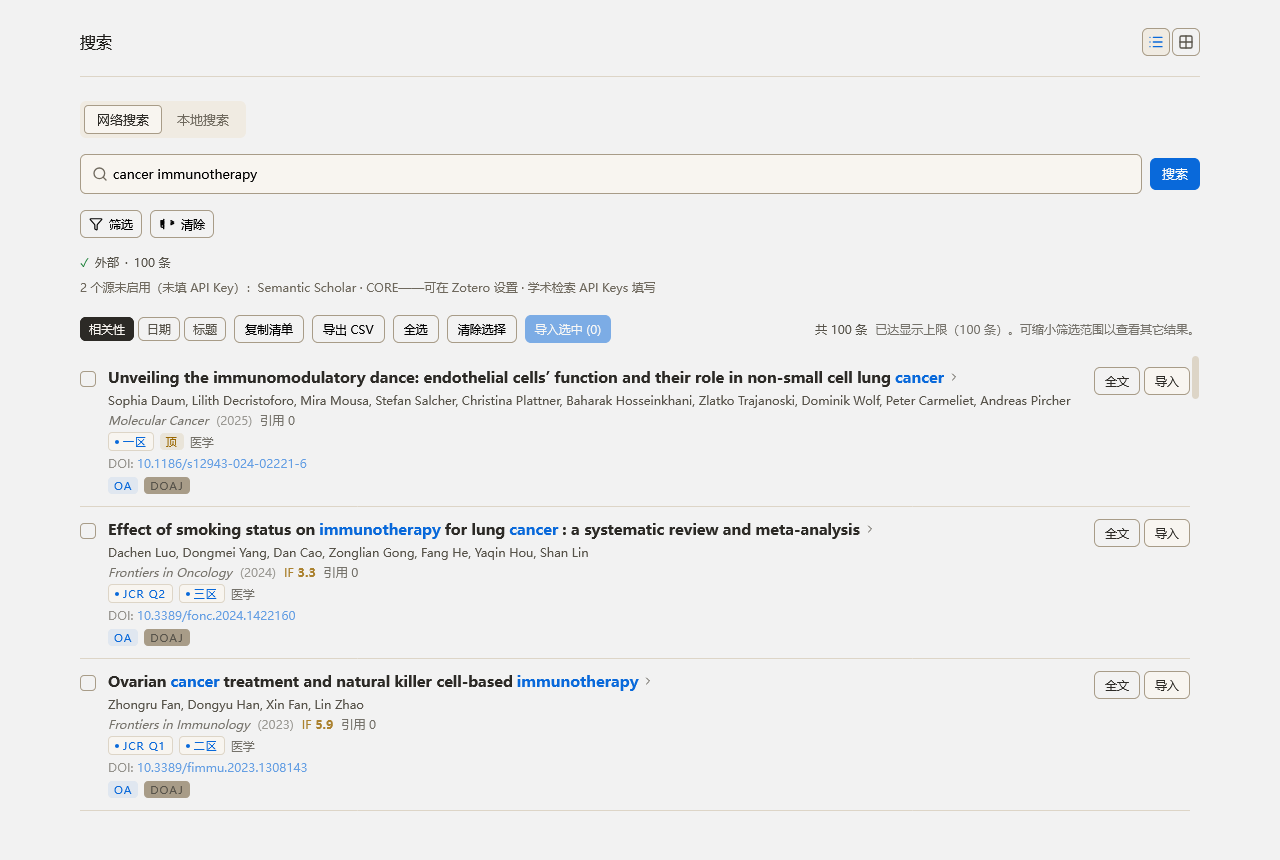
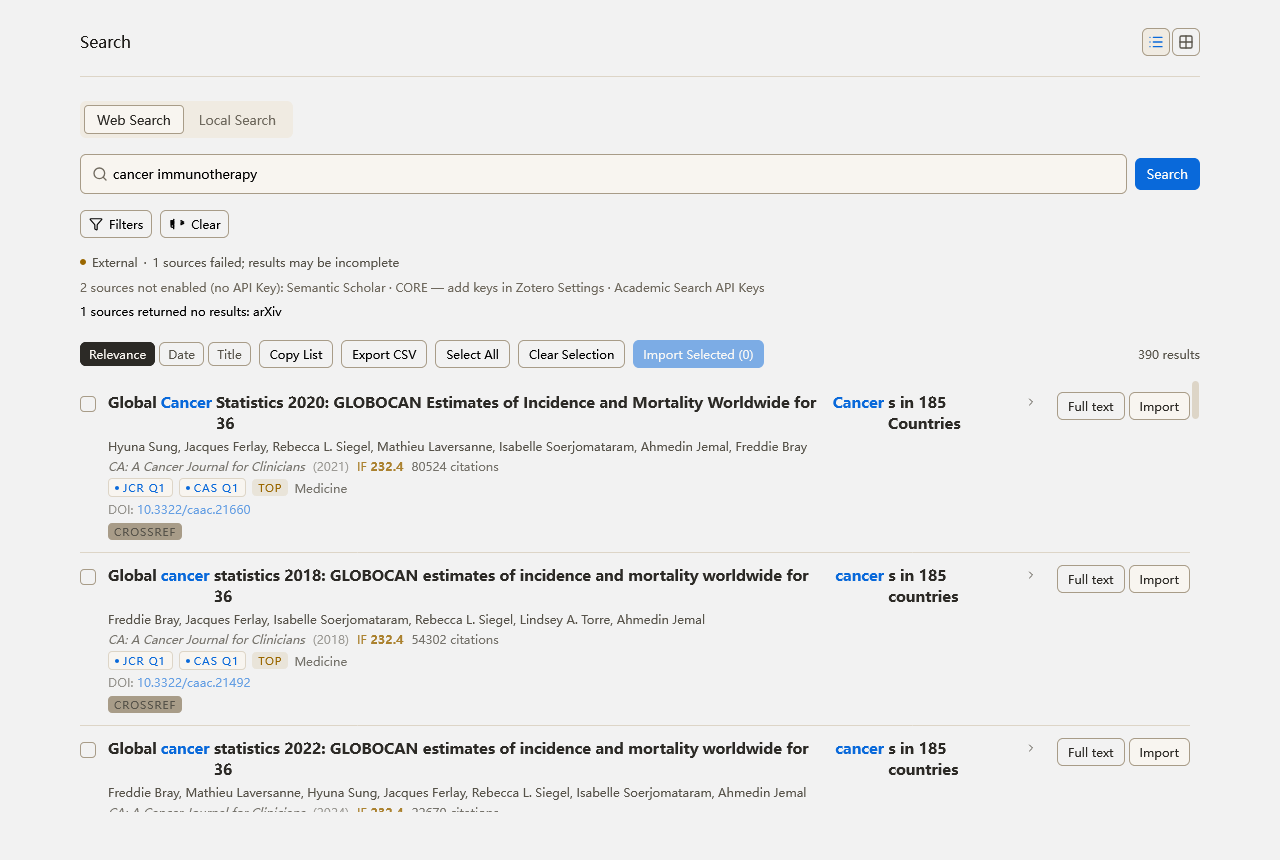
feat(i18n): 英文 Zotero 默认英文数据列 + README 截图改英文界面
- 富集侧 CASS 大类/预警级别按 Zotero.locale 取中英列：中文界面中文，
  其余（含 en 与第三语言）默认英文，英文列缺失回退中文（审计遗漏项）
- 期刊指标卡 CAS 大类改双语对（zh: 中文 (English) / 其他: English (中文)），
  小类名同样按界面语言取列
- 视觉 spec 强制 en-US 渲染（README 截图为英文界面），after() 对称恢复
  locale 与快照，不污染后续中文断言套件；选择器双语化
- README 两张截图替换为英文界面实机截图（徽章: JCR Q1/CAS Q1/Top/Medicine）

diff --git a/tests/zotero/hub-visual-search.spec.js b/tests/zotero/hub-visual-search.spec.js
@@ -70,12 +70,17 @@ describe("z-search hub visual search verification (real Zotero + real network)",
       ?.contentWindow;
   }
 
-  function findBtn(text) {
+  /** 按钮文本匹配：支持 string（前缀）与 RegExp（整串测试）。双语选择器
+      （en-US 本 spec 强制英语；前缀匹配保留给历史调用兼容）。 */
+  function findBtn(textOrRe) {
     const root = hubRoot();
     return (
-      Array.from(root?.querySelectorAll("button") || []).find((b) =>
-        (b.textContent || "").trim().startsWith(text),
-      ) || null
+      Array.from(root?.querySelectorAll("button") || []).find((b) => {
+        const t = (b.textContent || "").trim();
+        return typeof textOrRe === "string"
+          ? t.startsWith(textOrRe)
+          : textOrRe.test(t);
+      }) || null
     );
   }
 
@@ -114,12 +119,14 @@ describe("z-search hub visual search verification (real Zotero + real network)",
     input.dispatchEvent(new win.Event("input", { bubbles: true }));
     await Zotero.Promise.delay(400);
     // 从输入框向上爬，找最近一个同时装有「搜索」钮的祖先——keep-alive
-    // 让隐藏面板的同名按钮也挂在 DOM 里，全域找钮会点到隐藏面板去
+    // 让隐藏面板的同名按钮也挂在 DOM 里，全域找钮会点到隐藏面板去。
+    // 精确等值（Search / 搜索）避免误配 Searching... 之类的中间态文案。
     let anc = input.parentElement;
     let btn = null;
     while (anc && anc !== root) {
       btn = Array.from(anc.querySelectorAll(":scope > * button")).find(
-        (b) => (b.textContent || "").trim().startsWith("搜索") && !b.disabled,
+        (b) =>
+          /^(Search|搜索)$/.test((b.textContent || "").trim()) && !b.disabled,
       );
       if (btn) break;
       anc = anc.parentElement;
@@ -251,8 +258,72 @@ describe("z-search hub visual search verification (real Zotero + real network)",
     OUTPUTS[name] = path;
   }
 
+  // 切走前的应用 locale（after() 恢复）——本套件按字母序最先跑，后面还有
+  // 按中文断言的套件，不能把 en-US 泄漏给他们。
+  let origRequestedLocales = null;
+  let origZoteroLocale = null;
+
+  function localeService() {
+    // 本 Gecko 无 Services.sys.mjs；chrome 窗口通常已有 Services 全局，
+    // 不可用则直取 XPCOM locale service。
+    return globalThis.Services
+      ? globalThis.Services.locale
+      : Cc["@mozilla.org/intl/localeservice;1"].getService(
+          Ci.mozILocaleService,
+        );
+  }
+
+  function addonInstance() {
+    // runner 页无裸 `addon` 全局（no-undef 也不认 typeof 守卫）——经
+    // globalThis 取，缺省落到 null。
+    return Zotero.ZSearch ?? globalThis.addon ?? null;
+  }
+
+  /** 作废插件的 locale 快照。Fluent 的 Localization 监听
+      intl:app-locales-changed 自行重协商（Zotero 设置里切换语言即生效），
+      但 addon.data.locale.cacheSnapshot 是冻结的字符串映射，必须显式丢弃
+      让 locale.getAll 重新解析。 */
+  function invalidateLocaleSnapshot() {
+    const inst = addonInstance();
+    if (inst?.data?.locale) {
+      delete inst.data.locale.cacheSnapshot;
+      // 保险：若该构建的 Localization 不自动重协商，用 runner 页可见的
+      // Localization 构造器重建实例（getGlobal 在 runner 页不存在）。
+      try {
+        const Loc = globalThis.Localization;
+        if (Loc) {
+          inst.data.locale.current = new Loc(
+            [
+              "zsearch-addon.ftl",
+              "zsearch-preferences.ftl",
+              "zsearch-tracking.ftl",
+            ],
+            true,
+          );
+        }
+      } catch {
+        /* 保留旧实例，依赖其自动重协商 */
+      }
+    }
+  }
+
   before(async function () {
     try {
+      // README 截图要求英文界面（插件默认英语）：把测试实例的应用 locale
+      // 切到 en-US，并作废插件启动时预热的 locale 快照——iframe 的
+      // locale.getAll 会经 localeBatch 重新协商，整个 Hub 以 en-US FTL 渲染。
+      // 这同时是 en-US FTL 键集的实机回归：任何缺失键都会以裸 key 上屏并被
+      // 下面的断言/截图暴露。
+      const ls = localeService();
+      origRequestedLocales = ls.requestedLocales;
+      ls.requestedLocales = ["en-US"];
+      // Zotero.locale 是启动时缓存的普通属性，不随 requestedLocales 运行时
+      // 切换更新——宿主侧富集的 zh/en 列选择（literatureSearchHelpers）读它，
+      // 必须一并覆盖，否则卡片学科徽章仍会取中文列。
+      origZoteroLocale = Zotero.locale;
+      Zotero.locale = "en-US";
+      invalidateLocaleSnapshot();
+
       const mod = await import("../../src/ui/hub/HubWindowManager.js");
       hubWindowManager = mod.hubWindowManager;
       outDirReady = await ensureOutDir();
@@ -266,6 +337,15 @@ describe("z-search hub visual search verification (real Zotero + real network)",
 
   after(function () {
     try {
+      if (origRequestedLocales) {
+        try {
+          localeService().requestedLocales = origRequestedLocales;
+        } catch {
+          /* best-effort */
+        }
+        Zotero.locale = origZoteroLocale;
+        invalidateLocaleSnapshot();
+      }
       hubWindowManager?.closeAll();
     } catch {
       /* best-effort */
@@ -288,14 +368,14 @@ describe("z-search hub visual search verification (real Zotero + real network)",
       // 可靠路径：不做筛选交互，直接全源检索（被墙源失败会被状态条点名）
       const drive = await runUiSearch(
         "cancer immunotherapy",
-        /研究问题|关键词|DOI/i,
+        /research question|keywords|DOI|研究问题|关键词/i,
       );
       const cards = await waitFor(
         () => hubDoc()?.querySelectorAll(".lit-result-journal").length,
         150000,
       );
       // 等检索收尾（「取消」钮变回「搜索」，状态条脱离「检索中」置灰态）
-      await waitFor(() => !!findBtn("搜索"), 60000);
+      await waitFor(() => !!findBtn(/^(Search|搜索)$/), 60000);
       await Zotero.Promise.delay(1500);
 
       // 把带 IF 徽章的卡滚进视口（虚拟列表只在视口内挂载行）
@@ -384,7 +464,7 @@ describe("z-search hub visual search verification (real Zotero + real network)",
       await waitFor(() => {
         const input = Array.from(
           hubRoot()?.querySelectorAll("input") || [],
-        ).find((i) => /刊名|ISSN/i.test(i.placeholder || ""));
+        ).find((i) => /journal name|ISSN|刊名/i.test(i.placeholder || ""));
         if (!input) return null;
         const slot = input.closest(".hub-pane-slot");
         return slot && !/hidden/.test(slot.className) ? input : null;
@@ -392,7 +472,7 @@ describe("z-search hub visual search verification (real Zotero + real network)",
 
       const drive = await runUiSearch(
         "Academic Exchange Quarterly",
-        /刊名|ISSN/i,
+        /journal name|ISSN|刊名/i,
       );
       const hit = await waitFor(
         () => {

diff --git a/src/core/search/literatureSearchHelpers.ts b/src/core/search/literatureSearchHelpers.ts
@@ -57,6 +57,13 @@ export async function enrichJournalMetrics(articles: any[]): Promise<void> {
         : Promise.resolve(new Map()),
     ]);
 
+    // 数据侧中英列的界面语言选择：中文界面取中文列，其余 locale（含 en 与
+    // 未翻译的第三语言）默认取英文列——CASS 大类名/预警级别否则会在英文
+    // 界面上露出中文。
+    const zhUi = String((globalThis as any).Zotero?.locale ?? "")
+      .toLowerCase()
+      .startsWith("zh");
+
     for (const a of articles) {
       if (!a) continue;
       const issnKey = a.issn ? normIssn(a.issn) : "";
@@ -78,18 +85,17 @@ export async function enrichJournalMetrics(articles: any[]): Promise<void> {
       }
       if (cass) {
         a.cassQuartile = cass.major_quartile ?? undefined;
-        a.cassCategory = cass.major_category ?? undefined;
+        // 英文列缺失时回退中文列（部分行 major_category_en 为 null）
+        a.cassCategory =
+          (!zhUi && cass.major_category_en) || cass.major_category || undefined;
         a.cassIsTop = cass.is_top === true;
       }
       // 2024/2025 版预警名单不带级别（warning_level=null，论文工厂类）——
-      // 记录存在即告警；级别按界面语言取值（en 优先 High/Medium/Low），
+      // 记录存在即告警；级别按界面语言取值（中文界面中文、其余默认英文），
       // 全缺回退 ⚠（审计 P0-3 / P2-5）
       if (warn) {
-        const en = String((globalThis as any).Zotero?.locale ?? "")
-          .toLowerCase()
-          .startsWith("en");
-        const primary = en ? warn.warning_level_en : warn.warning_level;
-        const secondary = en ? warn.warning_level : warn.warning_level_en;
+        const primary = zhUi ? warn.warning_level : warn.warning_level_en;
+        const secondary = zhUi ? warn.warning_level_en : warn.warning_level;
         a.warningLevel = primary ?? secondary ?? "⚠";
       }
       if (beallsHit) a.beallsHit = beallsHit;

diff --git a/src/react/components/Hub/search/JournalSearch/JournalMetricCard.tsx b/src/react/components/Hub/search/JournalSearch/JournalMetricCard.tsx
@@ -9,10 +9,22 @@
  */
 
 import React from "react";
-import { getString } from "../../../../utils/locale";
+import { getString, getLocaleTag } from "../../../../utils/locale";
 import { StatFigure } from "@/components/ui/StatFigure";
 import type { JournalMetric } from "../../../../../types/journalSearch";
 import { normalizeQuartile, formatQuartile } from "./types";
+
+/** CAS 大类中英双列的展示序：中文界面「中文 (English)」，其余界面默认
+    「English (中文)」——英文 Zotero 下不再以中文打头。缺列时单列。 */
+function formatCassCategoryPair(zh: string, en: string | undefined): string {
+  if (!en) return zh;
+  const zhUi = isZhUi();
+  return zhUi ? `${zh} (${en})` : `${en} (${zh})`;
+}
+
+function isZhUi(): boolean {
+  return (getLocaleTag() || "").toLowerCase().startsWith("zh");
+}
 
 /* 分区色阶退役（砚法 §5.3 语义外色相违法；Q3/Q4 撞色不可辨）：Q1 保留
    --accent 单强调档，Q2-Q4 统一 text-primary——分区语义由 Q1-Q4 文字承载，
@@ -267,7 +279,10 @@ export function JournalMetricCard({
           {metric.cassCategory && (
             <MetricRow
               label={getString("journal-cass-category-label")}
-              value={`${metric.cassCategory}${metric.cassCategoryEn ? ` (${metric.cassCategoryEn})` : ""}`}
+              value={formatCassCategoryPair(
+                metric.cassCategory,
+                metric.cassCategoryEn,
+              )}
             />
           )}
           {metric.cassIsTop != null && metric.cassIsTop && (
@@ -288,7 +303,7 @@ export function JournalMetricCard({
                       <span data-quartile={normalizeQuartile(m.quartile) ?? ""}>
                         {formatQuartile(m.quartile)}
                       </span>{" "}
-                      {m.nameCn || m.name}
+                      {isZhUi() ? m.nameCn || m.name : m.name || m.nameCn}
                     </span>
                   ))}
                 </div>

diff --git a/tests/unit/core/search/literature-enrich.test.ts b/tests/unit/core/search/literature-enrich.test.ts
@@ -133,4 +133,62 @@ describe("enrichJournalMetrics", () => {
     expect(articles[0].jif).toBe(2.1);
     expect(articles[0].jcrQuartile).toBeUndefined();
   });
+
+  it("默认英文：无 Zotero locale 时 CASS 大类与预警级别取英文列", async () => {
+    cassLookup.mockResolvedValue(
+      new Map([
+        [
+          "12345678",
+          {
+            major_quartile: 1,
+            major_category: "医学",
+            major_category_en: "Medicine",
+          },
+        ],
+      ]),
+    );
+    warnLookup.mockResolvedValue(
+      new Map([
+        ["ANY JOURNAL", { warning_level: "高", warning_level_en: "High" }],
+      ]),
+    );
+
+    const articles = [{ issn: "1234-5678", journalName: "Any Journal" }];
+    await enrichJournalMetrics(articles);
+    expect(articles[0].cassCategory).toBe("Medicine");
+    expect(articles[0].warningLevel).toBe("High");
+  });
+
+  it("中文界面（Zotero.locale=zh-CN）取中文列", async () => {
+    cassLookup.mockResolvedValue(
+      new Map([
+        [
+          "12345678",
+          {
+            major_quartile: 1,
+            major_category: "医学",
+            major_category_en: "Medicine",
+          },
+        ],
+      ]),
+    );
+    warnLookup.mockResolvedValue(
+      new Map([
+        ["ANY JOURNAL", { warning_level: "高", warning_level_en: "High" }],
+      ]),
+    );
+
+    const g = globalThis as any;
+    const prev = g.Zotero;
+    g.Zotero = { locale: "zh-CN" };
+    try {
+      const articles = [{ issn: "1234-5678", journalName: "Any Journal" }];
+      await enrichJournalMetrics(articles);
+      expect(articles[0].cassCategory).toBe("医学");
+      expect(articles[0].warningLevel).toBe("高");
+    } finally {
+      if (prev === undefined) delete g.Zotero;
+      else g.Zotero = prev;
+    }
+  });
 });

diff --git a/scripts/audit-cjk-literals.py b/scripts/audit-cjk-literals.py
@@ -1,0 +1,16 @@
+import re
+import pathlib
+
+root = pathlib.Path("src")
+hits = []
+for p in root.rglob("*.ts"):
+    s = p.read_text(encoding="utf-8", errors="replace")
+    s2 = re.sub(r"/\*.*?\*/", "", s, flags=re.S)
+    s2 = re.sub(r"//[^\n]*", "", s2)
+    for m in re.finditer(r'(["\'])([^"\'\n]*[一-龥][^"\'\n]*)\1', s2):
+        line = s2[: m.start()].count("\n") + 1
+        hits.append((str(p).replace("\\", "/"), line, m.group(2)[:100]))
+
+print(len(hits), "user-facing CJK literals")
+for f, l, t in hits:
+    print(f"{f}:{l}: {t}")
